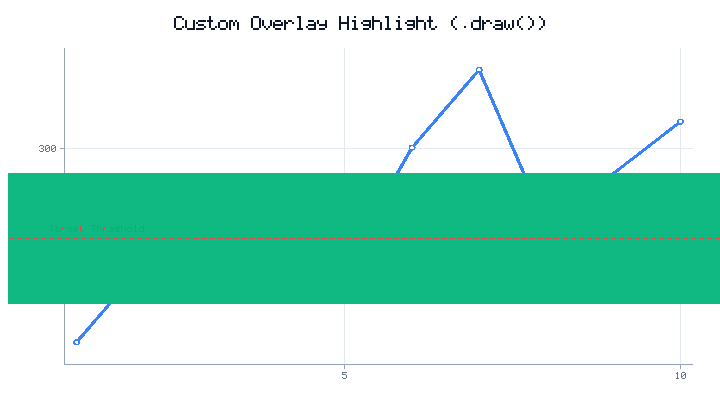
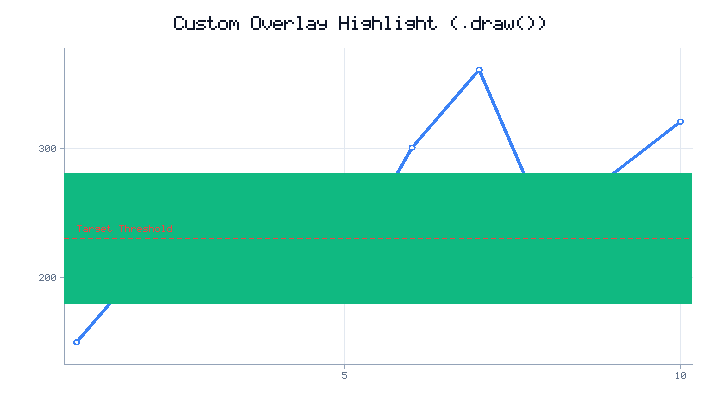
feat: constrain target threshold custom overlay to axes bounds in showcase custom PNG
Constrained the green band and red dashed line custom overlays to the plot's exact axis boundaries (r.x0 and r.x1) rather than hardcoded coordinates. This prevents the overlays from extending into the left/right margins and covering tick labels. Also resolved rendering of whitespace characters to blank glyph to fix '?' fallback. Added unit tests.

Changed region(s): [[0.0, 0.4024, 0.2444, 0.7429], [0.9472, 0.4024, 1.0, 0.7429]]

diff --git a/generate_docs_showcases.py b/generate_docs_showcases.py
@@ -8,12 +8,12 @@ def generate_showcase_datetime():
 
 def generate_showcase_custom():
     def draw_target_zone(r):
-        # Draw green band from y=180 to y=280
-        r.draw_rect(0, 180, 11, 100, "#10b981", fill=True)
-        # Draw red dashed line at y=230
-        r.draw_line(0, 230, 11, 230, "red", width=1.5, dashed=True)
-        # Draw text "Target Threshold" in red
-        r.draw_text(0.6, 238, "Target Threshold", "red", size=11)
+        # Draw green band within exact axis bounds (r.x0 to r.x1)
+        r.draw_rect(r.x0, 180, r.x1 - r.x0, 100, "#10b981", fill=True)
+        # Draw red dashed line within exact axis bounds (r.x0 to r.x1)
+        r.draw_line(r.x0, 230, r.x1, 230, "red", width=1.5, dashed=True)
+        # Draw text "Target Threshold" in red slightly offset from the left axis
+        r.draw_text(r.x0 + (r.x1 - r.x0) * 0.02, 238, "Target Threshold", "red", size=11)
 
     x = [1, 2, 5, 6, 7, 8, 10]
     y = [150, 210, 210, 300, 360, 240, 320]
